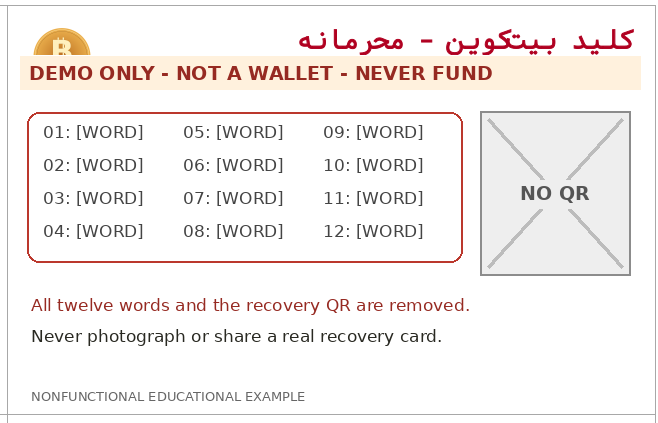
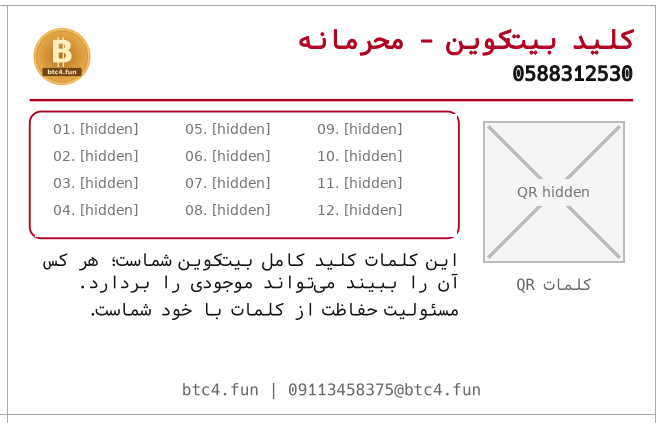
[verified] fix: preserve original envelope illustrations with full recovery masking

Changed region(s): [[0.0304, 0.1229, 0.9726, 0.8298], [0.0304, 0.8913, 0.7295, 0.9527]]

diff --git a/bitcoin4funsite/templates/_wallet_safety.html b/bitcoin4funsite/templates/_wallet_safety.html
@@ -3,14 +3,14 @@
       <p>داخل پاکت، مشابه تصویر اول، <strong>دوازده کلمه</strong> هست. هرکس این کلمات را با ترتیب درست داشته باشد، میتواند به کیف پول شما دسترسی پیدا کند و موجودی آن را <strong>خالی کند</strong>.</p>
       <p>مثلاً اگر دوربین مداربسته پشت سر شما تصویر خوانایی از کلمات بگیرد، کسی که به آن تصویر دسترسی دارد میتواند پول را بردارد. پاکت را دور از دوربین و نگاه دیگران باز کنید؛ از کلمات عکس نگیرید و آنها را برای هیچکس نفرستید. کلمات را <strong>در این سایت وارد نکنید</strong>؛ فقط هنگام بازیابی در برنامهٔ کیف پول معتبر و روی دستگاه مورد اعتماد خودتان استفاده میشوند.</p>
       <figure class="guide-example">
-        <img src="/static/guide-inner-example.png" width="658" height="423" alt="نمونهٔ آموزشی کاغذ داخلی؛ محل دوازده کلمه و کد بازیابی با جاینگهدار غیرقابلاستفاده پوشانده شده است.">
-        <figcaption>نمونهٔ آموزشی؛ کلمات و کد بازیابی حذف شدهاند. این تصویر کیف پول قابلاستفاده نیست و نباید به آن پول واریز شود.</figcaption>
+        <img src="/static/guide-inner-example.png" width="658" height="423" alt="نمونهٔ آموزشی با طرح اصلی کاغذ داخلی؛ هر دوازده کلمه و کد بازیابی برای حفظ امنیت پوشانده شدهاند.">
+        <figcaption>نمونهٔ آموزشی با طرح اصلی پاکت؛ همهٔ دوازده کلمه و کد بازیابی پوشانده شدهاند. در پاکت خودتان بهجای این پوششها، کلمات محرمانه را میبینید.</figcaption>
       </figure>
       <h2>تصویر دوم: کاغذ بیرونی برای واریز و استعلام است.</h2>
       <p>آدرس عمومی روی کاغذ بیرونی، مثل <strong>شماره حساب</strong> شما برای دریافت بیتکوین و بررسی تراکنشهاست؛ با داشتن آن بهتنهایی نمیتوان پول را برداشت کرد.</p>
       <figure class="guide-example">
-        <img src="/static/guide-outer-example.png" width="660" height="425" alt="نمونهٔ آموزشی کاغذ بیرونی؛ جای آدرس واریز، شمارهٔ سریال و کدهای استعلام، بدون آدرس یا کد قابلاستفاده.">
-        <figcaption>نمونهٔ آموزشی کاغذ بیرونی؛ آدرس، شمارهٔ سریال و کدهای تصویری حذف شدهاند. به این نمونه واریز نکنید.</figcaption>
+        <img src="/static/guide-outer-example.png" width="660" height="425" alt="تصویر اصلی کاغذ بیرونی برای نمونه؛ محل شمارهٔ سریال، آدرس واریز و کدهای عمومی استعلام را نشان میدهد.">
+        <figcaption>نمونهٔ آموزشی از تصویر اصلی با آدرس و کدهای عمومی واقعی؛ این آدرس متعلق به شما نیست. به آدرس این تصویر پول واریز نکنید؛ فقط از اطلاعات روی پاکت خودتان، پس از بررسی تطابق، استفاده کنید.</figcaption>
       </figure>
       <p>اگر <strong>فقط کاغذ بیرونی</strong> مخدوش، گم یا از بین برود و <strong>کلمات سالم</strong> و کامل بمانند، دسترسی شما به پول از بین نمیرود. با بازیابی کلمات کاغذ داخلی در کیف پول سازگار، میتوانید آدرسها و اطلاعات کیف پول را دوباره ببینید؛ نمایش موجودی و تراکنشهای تازه به اتصال شبکه نیاز دارد. این موضوع دربارهٔ از بین رفتن کلمات نیست؛ بدون کلمات یا پشتیبان آنها ممکن است دسترسی به پول برای همیشه از دست برود.</p>
       <p>اگر شمارهٔ سریال روی پاکت را دارید، در بخش <a href="/lookup">استعلام سریال</a> همین سایت وارد کنید تا آدرس عمومی ثبتشده را ببینید؛ کلمات محرمانه در سایت نگهداری یا نمایش داده نمیشوند. این دو شکل نشانی هم برای استعلام کار میکنند؛ بخش پایانی را با شمارهٔ سریال پاکت جایگزین کنید:</p>

diff --git a/bitcoin4funsite/tests/test_ui_contract.py b/bitcoin4funsite/tests/test_ui_contract.py
@@ -118,6 +118,14 @@ class UIContract(unittest.TestCase):
                        'تأییدنشده نهایی نیست', 'جعل', 'حقوق آمره'):
             self.assertIn(phrase, terms)
 
+    def test_example_captions_match_original_design_with_secret_only_redaction(self):
+        source = self.render('guide.html')
+        self.assertIn('طرح اصلی پاکت', source)
+        self.assertIn('همهٔ دوازده کلمه و کد بازیابی پوشانده شدهاند', source)
+        self.assertIn('آدرس و کدهای عمومی واقعی', source)
+        self.assertIn('به آدرس این تصویر پول واریز نکنید', source)
+        self.assertNotIn('آدرس، شمارهٔ سریال و کدهای تصویری حذف شدهاند', source)
+
     def test_guide_starts_with_plain_inner_outer_and_stranger_warnings(self):
         source = self.render("guide.html")
         self.assertIn('<section id="quick-guide">', source)

diff --git a/README.md b/README.md
@@ -63,7 +63,7 @@ python3 -m unittest discover -s bitcoin4funsite/tests -v
 
 ## راهنمای ساده و محدودیت استعلام
 
-در صفحهٔ اول، استعلام و ابتدای راهنما، دو تصویر آموزشیِ غیرقابلاستفاده همراه توضیح کاغذ داخلی و بیرونی آمده است. تصویرهای اصلیِ کاربر شامل اطلاعات کیف پولاند و عمداً منتشر نمیشوند؛ کلمات، کدهای تصویری، آدرس و سریال در نسخهٔ آموزشی حذف شدهاند. هشدار دوربین مداربسته، جعل کاغذ بیرونی و نخریدن پاکت از غریبه صریح است.
+در صفحهٔ اول، استعلام و ابتدای راهنما، دو تصویر با طرح اصلی پاکت همراه توضیح کاغذ داخلی و بیرونی آمده است. هر دوازده کلمه و کل کد بازیابیِ تصویر داخلی پوشانده شدهاند؛ پوشاندن چند کلمه کافی نیست. با درخواست صاحب تصویر، نمونهٔ بیرونی آدرس و کدهای عمومی واقعی را نشان میدهد و هشدار دارد که به آن پول واریز نکنید. اصل فایل داخلی محرمانه همچنان محلی است و منتشر نمیشود. هشدار دوربین مداربسته، جعل کاغذ بیرونی و نخریدن پاکت از غریبه صریح است.
 
 دو مسیر استعلام عمومی همارزند:
 

diff --git a/SECURITY.md b/SECURITY.md
@@ -40,11 +40,14 @@ closed. Shared-IP users share the limit; changing IPs can bypass this defense.
 Trust forwarded client addresses only through the existing local/private peer
 and last appended Caddy hop; keep the app port bound to loopback.
 
-Guide images are nonfunctional educational derivatives. Original privatekey.png
-and publickey.png files must never enter Git, Docker contexts or remote uploads:
-they can expose recovery material even if a text secret scanner reports clean.
-Remove every recovery word/QR, address and serial with opaque replacement before
-publication; retain the originals only in a trusted local private environment.
+The inner guide image preserves the original design but replaces all twelve
+recovery words and the entire recovery QR with opaque pixels. Partial word/QR
+redaction is not sufficient. The explicitly authorized public outer example
+retains its actual public address/QR/serial, with a conspicuous no-deposit
+caption; it is not the visitor's wallet. Never claim that image is nonfunctional.
+Original input filenames privatekey.png/publickey.png remain excluded from Git,
+Docker contexts, uploads and static serving. Export metadata-free derivatives;
+a text secret scanner cannot establish that a wallet image is safe.
 
 The optional contact form never uploads files and submits only to this server.
 Its publisher credential must have write-only permission to the private

diff --git a/bitcoin4funsite/DEPLOYMENT.md b/bitcoin4funsite/DEPLOYMENT.md
@@ -169,8 +169,10 @@ connecting client IP; never expose the upstream listener publicly or accept
 arbitrary forwarded headers from an untrusted proxy.
 
 Only guide-inner-example.png and guide-outer-example.png are public guide
-illustrations. Their words, QR codes, address and serial were replaced with
-nonfunctional placeholders and the PNGs have no source metadata. User originals
+illustrations. The inner card keeps its original design while all twelve words
+and the entire recovery QR are covered. The owner-authorized outer card retains
+public address/QR/serial pixels and has a no-deposit caption; do not describe
+its public codes as nonfunctional. Both PNGs have no source metadata. User originals
 privatekey.png/publickey.png must remain local: Git ignore, forced-index guard,
 Docker exclusions, transfer allowlist and Flask static refusal protect them.
 Never copy the full static directory without filtering operator originals.

diff --git a/bitcoin4funsite/INSTALLATION.md b/bitcoin4funsite/INSTALLATION.md
@@ -38,8 +38,10 @@ sha256:20a898614d9d724a141017af1d682021be205bc682d4e71d134900e8a7811803
 
 The guide release adds shared plain-language inner/outer examples on home,
 lookup and guide, a camera/stranger/forged-address warning, and clarified
-initial-deposit terms. Images use nonfunctional opaque replacements; original
-wallet images are excluded from Git, builds, transfer and static serving.
+initial-deposit terms. The original inner design is retained with all recovery
+words and its QR covered; the explicitly authorized outer design retains public
+deposit/lookup information and warns not to fund the example. Source input
+filenames remain excluded from Git, builds, transfer and static serving.
 The pre-existing /s/SERIAL and /SERIAL handlers are exercised as equivalent
 public-only routes; no shared-Caddy change is required.
 
